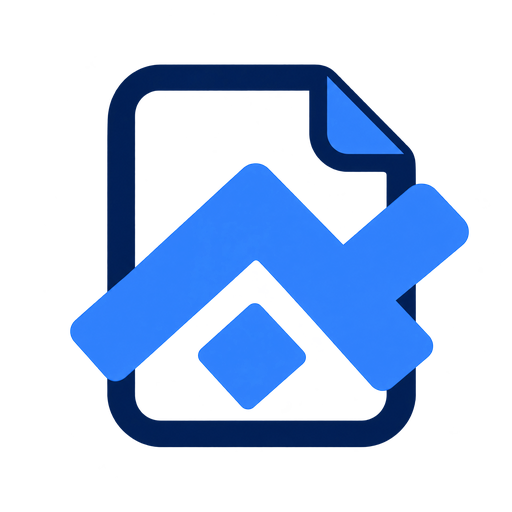
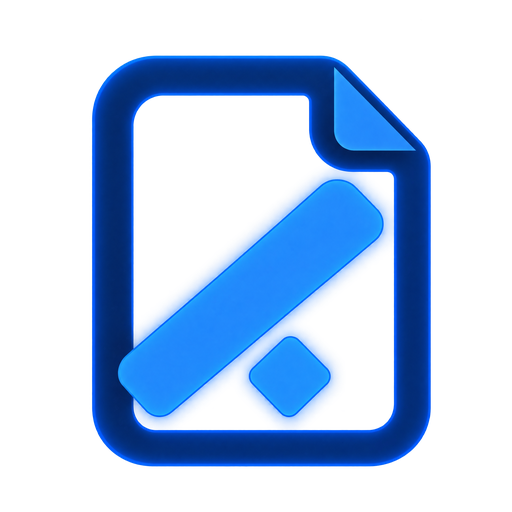
fix: reduce A-Notes mark to branded note submark

diff --git a/README.md b/README.md
@@ -96,4 +96,4 @@ Replace each with real branded assets using the same file names and exact dimens
 ## Branding
 - Full product name: Aurikrex Notes
 - PWA short name: A-Notes
-- App mark: `/public/icons/a-notes-mark.png` derived from the Aurikrex symbol with a subtle note-page cue.
+- App mark: `/public/icons/a-notes-mark-reduced.png` uses a reduced diagonal-ribbon and diamond accent inside a note-page silhouette; it does not reproduce the full Aurikrex logo.
